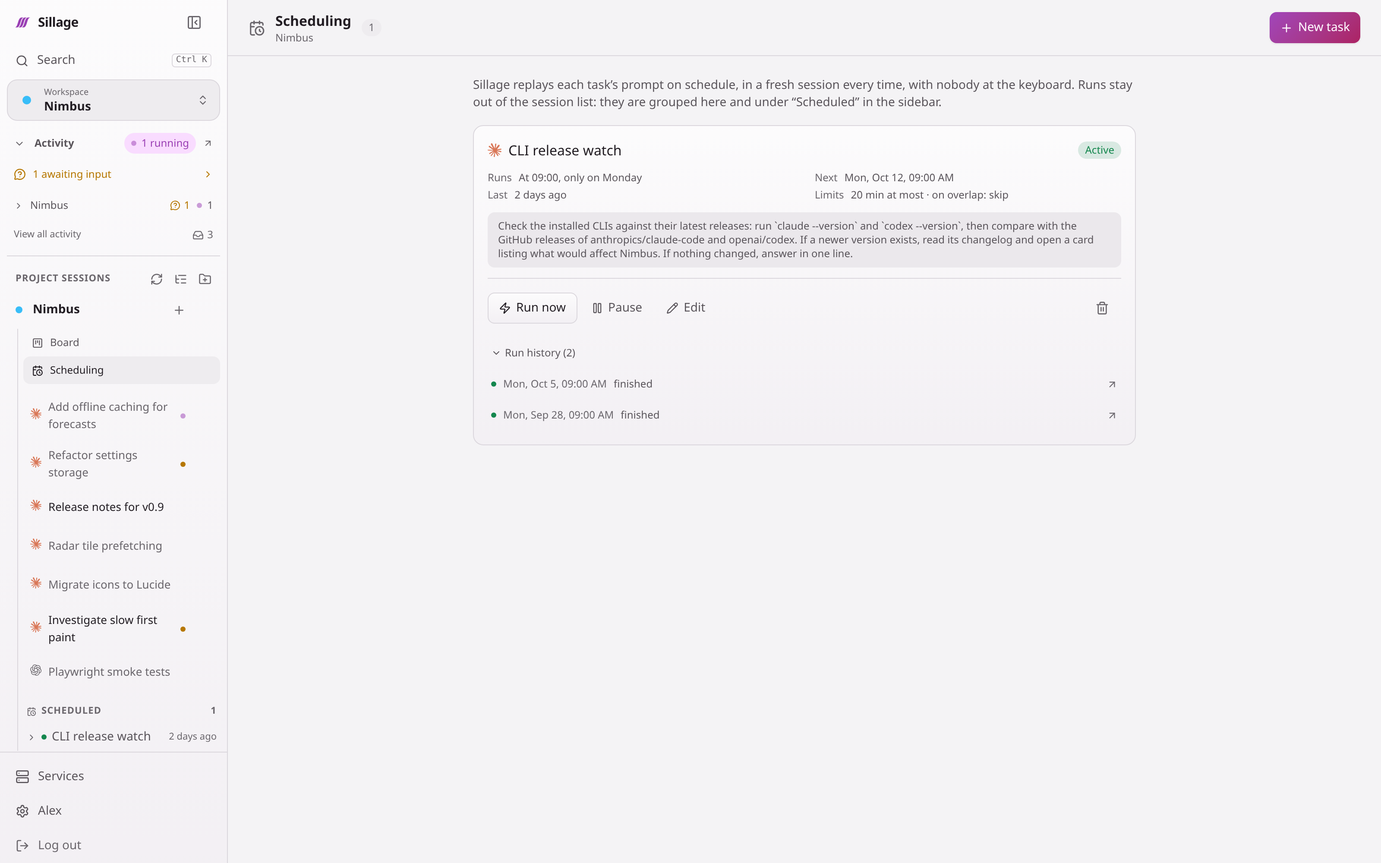
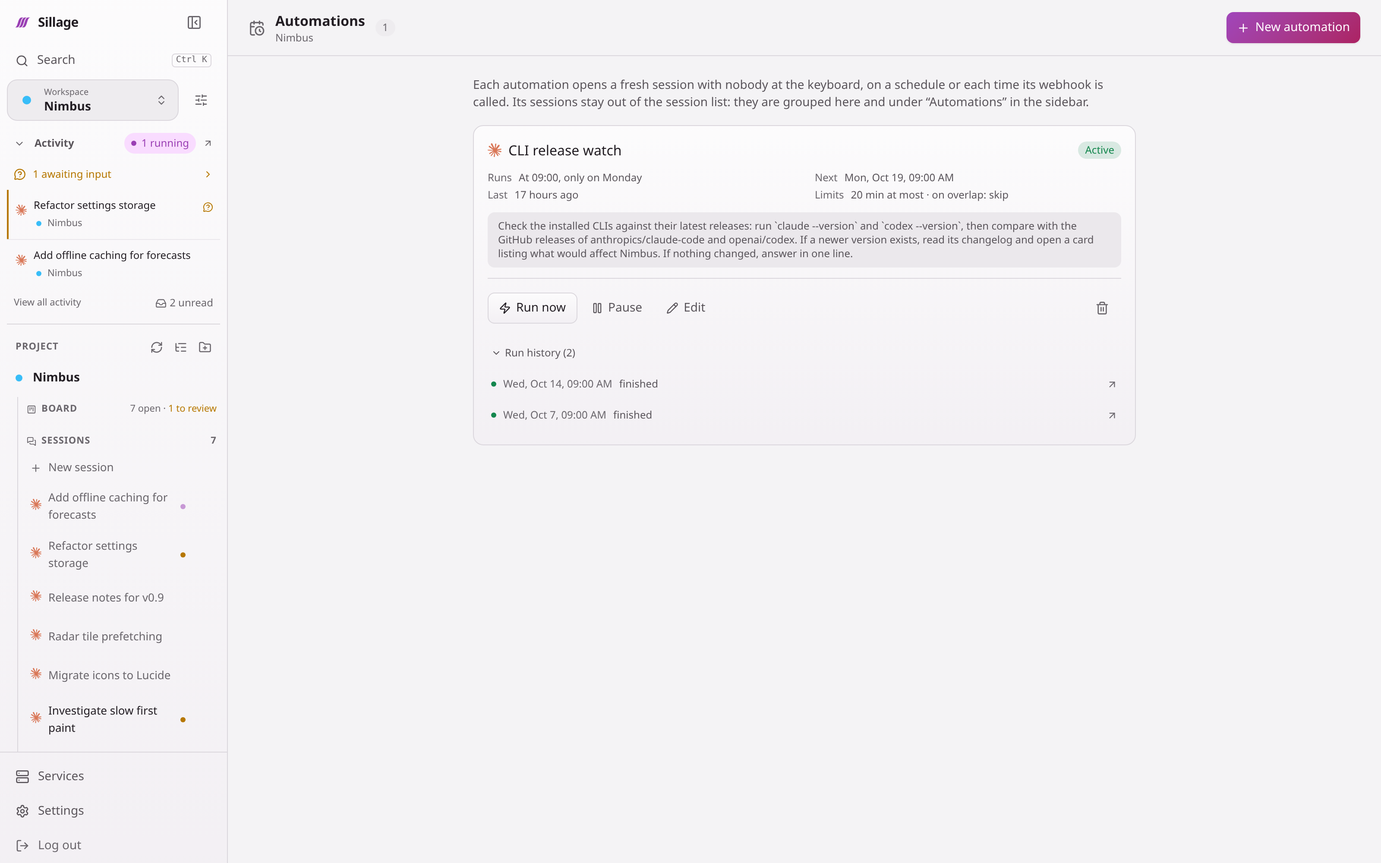
Actualiser le README et le site avec les fonctions récentes
Présenter les actions, automatisations, décisions, comptes et accès MCP désormais disponibles, avec leurs limites. Renouveler les captures sur une instance dédiée et adapter la navigation aux six chapitres.

diff --git a/site/index.html b/site/index.html
@@ -4,15 +4,15 @@
   <meta charset="utf-8">
   <title>Sillage · A workspace for coding agents</title>
   <meta name="viewport" content="width=device-width, initial-scale=1">
-  <meta name="description" content="A self-hosted workspace for Claude Code, Codex and OpenCode. Continue from any device, manage projects, and give agents the context to work together.">
+  <meta name="description" content="A self-hosted workspace for Claude Code, Codex and OpenCode. Work from any device, connect GitHub issues, automate tasks and choose the account for each session.">
   <link rel="icon" href="favicon.svg" type="image/svg+xml">
   <!-- Changer ?v= à chaque modification de style.css ou de main.js : GitHub Pages les laisse
        en cache dix minutes, et une page neuve servie avec une feuille ancienne se casse. -->
-  <link rel="stylesheet" href="style.css?v=film">
+  <link rel="stylesheet" href="style.css?v=automations">
   <meta name="theme-color" content="#faf7fb" media="(prefers-color-scheme: light)">
   <meta name="theme-color" content="#0f0b11" media="(prefers-color-scheme: dark)">
   <meta property="og:title" content="Sillage">
-  <meta property="og:description" content="Your projects, sessions and native coding agents, in one self-hosted workspace.">
+  <meta property="og:description" content="Native coding agents, GitHub issues, scheduled work and webhook automations, in one self-hosted workspace.">
   <meta property="og:image" content="https://marlburrow.github.io/sillage/og.png">
   <meta property="og:type" content="website">
   <noscript><style>.tab-panel[hidden], .shots-panels [hidden] { display: block !important; } .shots-nav, .tabs { display: none; } .shots-panels figure { margin-bottom: 2rem; }</style></noscript>
@@ -62,6 +62,7 @@
       <a href="#projects">Projects</a>
       <a href="#coordination">Coordination</a>
       <a href="#context">Instructions &amp; memory</a>
+      <a href="#schedules">Automations</a>
       <a href="#tour">Product tour</a>
       <a href="#install">Install</a>
       <a class="repo" href="https://github.com/MarlBurroW/sillage">GitHub</a>
@@ -83,7 +84,7 @@
       <div class="hero-heading">
         <h1>Keep your work<br>within reach.</h1>
         <div>
-          <p class="lede">A workspace for your coding agents.<br>Continue from your phone. Keep projects organised. Give each session the context to work with the others.</p>
+          <p class="lede">A workspace for your coding agents.<br>Continue from your phone. Turn issues and events into work. Keep the decisions within reach.</p>
           <p class="hero-detail">Claude Code, Codex and OpenCode run on your machine, with their native tools and your accounts. Sillage brings the work into your browser.</p>
           <p class="actions">
             <a class="btn primary" href="#install">Install Sillage <span aria-hidden="true">↗</span></a>
@@ -113,6 +114,7 @@
       <a href="#coordination"><span>03 / Session awareness</span>Let agents coordinate ↗</a>
       <a href="#agents"><span>04 / Multi-CLI</span>Choose the right harness ↗</a>
       <a href="#context"><span>05 / Shared context</span>One set of instructions, one memory ↗</a>
+      <a href="#schedules"><span>06 / Automations</span>Run on a schedule or an event ↗</a>
     </nav>
 
     <section class="overview" id="overview" aria-labelledby="overview-title">
@@ -161,7 +163,7 @@
         <p class="section-lede">Your agents have a home. Follow their work from any device.</p>
         <div class="prose-columns">
           <p>Run Sillage on an always-on server, connect through your VPN, and pick up on your phone. Close your browser mid-turn: the agent keeps working, and the event journal brings the conversation back when you reconnect.</p>
-          <p>Answer a permission request, review a diff or send a correction. Install Sillage as a PWA and receive push notifications when a turn finishes or an agent needs your attention.</p>
+          <p>Answer a permission request, review a diff or send a correction. Install Sillage as a PWA for push notifications on your other devices. Questions and decisions also appear as in-app toasts; a conversation already in view stays quiet.</p>
         </div>
         <p class="technical-note">Prefer your own computer? Sillage works there too. Keep it awake and online, and set up remote access before switching devices. Your agents and files stay on the machine where you installed them.</p>
         <a class="text-link" href="https://github.com/MarlBurroW/sillage/blob/main/docs/remote-access.md">Set up remote access &amp; agent preview links ↗</a>
@@ -181,8 +183,11 @@
       </figure>
       <div class="project-details">
         <div><h3>Cards with a history</h3><p>Descriptions, attachments, linked sessions and notes. Start a conversation from a card; the next agent can read what came before.</p></div>
+        <div><h3>GitHub issues, on your board</h3><p>Link a repository and keep its issues alongside local cards. Comments and issue state sync with GitHub; labels map to your columns. You choose whether new cards stay local or become issues.</p></div>
+        <div><h3>Maintenance on your terms</h3><p>Let a new issue or comment start work with your instructions, CLI and permissions. Each issue keeps its own session, and later comments join it. Choose a separate worktree or the project root.</p></div>
         <div><h3>Room for parallel work</h3><p>Use the project root, an existing worktree or a new branch. Keep separate changes in separate worktrees while following them from the same project.</p></div>
-        <div><h3>The repository at hand</h3><p>Read files, edit code, inspect diffs and commits, or open a terminal beside the conversation. Search past conversations across projects.</p></div>
+        <div><h3>The repository at hand</h3><p>Read and edit files, stage changes, commit, manage branches or open a terminal beside the conversation. Move several files together, and use the command palette to find projects, sessions and past messages.</p></div>
+        <div><h3>Commands worth keeping</h3><p>Turn tests, dev servers and debug scripts into project actions. Run them from the header, panel or command palette, follow their output and open a service's preview link. Review commands proposed by agents before launching them from the interface.</p></div>
       </div>
     </section>
 
@@ -202,7 +207,8 @@
           <div><dt>When work belongs elsewhere</dt><dd>Open a card for a bug found along the way. When you ask, start a new session with its own CLI, model, effort and worktree, then get notified when it finishes.<code>create_card · start_session · list_models</code></dd></div>
         </dl>
         <p class="technical-note">These tools help agents coordinate; they do not lock files or prevent merge conflicts. Use separate worktrees when changes need isolation.</p>
-        <a class="text-link" href="https://github.com/MarlBurroW/sillage/blob/main/apps/server/src/mcp/sillage-mcp.mjs">Read the tool definitions ↗</a>
+        <p><strong>Bring your own MCP client.</strong> A CLI outside Sillage can read history, boards, instructions and memory across projects, and launch new work. Connect over HTTP with a scoped API token, or use stdio on the host or over SSH. Messaging between sessions remains available to agents running inside Sillage.</p>
+        <a class="text-link" href="https://github.com/MarlBurroW/sillage/blob/main/docs/mcp.md">Connect an external CLI to Sillage ↗</a>
       </div>
     </section>
 
@@ -213,6 +219,10 @@
         <h2>Native harnesses.<br>A shared workspace.</h2>
         <p class="section-lede">Choose Claude Code, Codex or OpenCode for each conversation. Keep the project around it.</p>
         <div class="prose-columns"><p>Sillage drives the native CLIs: their tools, permission requests and agent behaviour. Each adapter translates its events into a common format for the interface, history and search.</p><p>The board and coordination tools belong to the project, so a Codex session can look up a decision made in a Claude Code conversation. Additional CLIs need their own adapter; Claude Code, Codex and OpenCode are supported today. OpenCode brings any provider and model it can reach, including local ones.</p></div>
+        <dl class="tool-reference">
+          <div><dt>Choose the account, too</dt><dd>Add Claude and Codex subscriptions or API keys from the interface, then choose an account for each conversation. Subscription usage helps you choose; extra Claude accounts need a separate sign-in for their gauge. <a href="https://github.com/MarlBurroW/sillage/blob/main/docs/accounts.md">Account setup and limits ↗</a></dd></div>
+          <div><dt>Keep your settings close</dt><dd>Pin the controls you use under the message box, from permissions and account to speed or advisor when the CLI supports them. Claude Code, Codex and OpenCode each keep their own composer layout.</dd></div>
+        </dl>
         <div class="agent-links"><a href="https://github.com/MarlBurroW/sillage/tree/main/apps/server/src/agents/claude">Claude Code adapter ↗</a><a href="https://github.com/MarlBurroW/sillage/tree/main/apps/server/src/agents/codex">Codex adapter ↗</a><a href="https://github.com/MarlBurroW/sillage/tree/main/apps/server/src/agents/opencode">OpenCode adapter ↗</a></div>
       </div>
     </section>
@@ -228,27 +238,29 @@
           <div><dt>When you change the rules</dt><dd>Ask an agent to revise the instructions; it edits them like a file.<code>read_instructions · edit_instructions · write_instructions</code></dd></div>
           <div><dt>When something is worth remembering</dt><dd>Codex and OpenCode note it in the project memory; Claude does it natively in the same folder.<code>read_memory · write_memory · delete_memory</code></dd></div>
         </dl>
-        <p class="technical-note">Both are read when a session starts: a session already running keeps the version it received. Existing projects keep their repository files until you move them into Sillage.</p>
+        <p class="technical-note">Claude Code and Codex read this context at session start; OpenCode receives it with each message. Existing projects keep their repository files until you move them into Sillage.</p>
         <a class="text-link" href="https://github.com/MarlBurroW/sillage/blob/main/docs/sillage-md.md">How it works in detail ↗</a>
       </div>
     </section>
 
     <section class="editorial" id="schedules">
       <div class="section-background" aria-hidden="true"><svg class="background-waves" viewBox="0 0 1600 1000" fill="none" preserveAspectRatio="xMidYMid slice" focusable="false"><use href="#background-pattern"/></svg></div>
-      <div class="section-label">06 / Scheduled work</div>
+      <div class="section-label">06 / Automations</div>
       <div class="section-body">
         <h2>Some work should happen<br>while you are away.</h2>
-        <p class="section-lede">A release watch every Monday. A dependency audit each night. Sillage runs them on time, in a fresh session, and keeps the results out of your way.</p>
+        <p class="section-lede">A release watch every Monday. An issue labeled for an agent. A failing CI run to investigate. Start work on a schedule or when an event arrives.</p>
         <figure class="product-shot">
-          <button type="button" data-zoom aria-label="Enlarge the scheduling page screenshot"><picture>
+          <button type="button" data-zoom aria-label="Enlarge the automations page screenshot"><picture>
             <source srcset="screenshots/schedule-dark.png" media="(prefers-color-scheme: dark)">
-            <img src="screenshots/schedule-light.png" width="3200" height="2000" loading="lazy" alt="Sillage scheduling page, with a weekly task, its next run and the history of past runs">
+            <img src="screenshots/schedule-light.png" width="3200" height="2000" loading="lazy" alt="Sillage automations page, with a weekly task, its next run and the history of past runs">
           </picture></button>
-          <figcaption>The scheduling page. One task, its cadence, its guard rails, and every run it has made.</figcaption>
+          <figcaption>Scheduled tasks and webhooks live under Automations, with settings and a history for each task.</figcaption>
         </figure>
-        <div class="prose-columns"><p>A scheduled task is a prompt with a cadence: every few hours, a cron expression, or a single date. Each run opens a new session of the CLI you chose, with the model, effort and permissions fixed on the task. The agent is told nobody is at the keyboard, gets the date, link and last reply of the previous run, and is cut off after a maximum duration. A run that overlaps the previous one is skipped, or waits.</p><p>Runs do not pile up in the session list. They sit under their task in the sidebar, one line per task with its state and last run, and the scheduling page keeps the full history. Neither CLI has a durable scheduler of its own: Claude's cron dies with its session, Codex has none. The daemon that already keeps your sessions alive does this for both.</p></div>
+        <div class="prose-columns"><p><strong>On a schedule.</strong> Run a prompt at an interval, with a cron expression or on a single date. Each run gets a fresh session of Claude Code, Codex or OpenCode, the task's model and permissions, and the previous run's last reply. Set a maximum duration and decide whether overlapping runs wait or are skipped.</p><p><strong>On an event.</strong> Connect a webhook, inspect its payload, and use its fields in conditions and prompts. Start from GitHub templates for labeled issues, comment commands, new pull requests or failed CI, or connect another service. Simulate a delivery to check what would run; deduplication and hourly limits bound the launches.</p></div>
         <dl class="tool-reference">
-          <div><dt>When you ask for recurring work</dt><dd>An agent can schedule it from the conversation, with an interval, a cron expression or a date. You adjust it later from the page.<code>schedule_task</code></dd></div>
+          <div><dt>Check before waking the agent</dt><dd>An optional script can check whether anything changed. Exit 0 starts the session with its output; exit 10 skips it without spending model tokens. Scripts written by an agent wait for your review.</dd></div>
+          <div><dt>Keep decisions within reach</dt><dd>Enable decision requests for a schedule, webhook or GitHub maintenance rule. The agent can leave a question in Decisions, with a deadline and an optional fallback. Your answer goes back to its session. This is off by default and separate from native CLI permissions.</dd></div>
+          <div><dt>Set it up from a conversation</dt><dd>Ask an agent to create a schedule or a webhook automation, then adjust it in the interface. Runs stay grouped under their task instead of filling the main session list.<code>schedule_task · create_automation</code></dd></div>
         </dl>
         <p class="technical-note">Runs use the project's default permissions unless the task says otherwise: a run that asks for a permission waits until its time is up. Pick a mode that fits what the task has to do on its own.</p>
       </div>
@@ -373,8 +385,8 @@
       <ul>
         <li><h3>A queue you can steer</h3><p>Write while the agent runs. Queue a follow-up, withdraw it, or send a correction into the current turn.</p></li>
         <li><h3>Dictation with project vocabulary</h3><p>Transcription uses a lexicon from your repository and current branch. An optional cleanup pass restores exact spellings. Bring an OpenAI-compatible endpoint.</p></li>
-        <li><h3>Shared skills &amp; MCP tools</h3><p>Keep reusable skills in a central library for Claude Code and Codex. Declare external MCP servers once and choose which agents receive them.</p></li>
-        <li><h3>A task API</h3><p>Create tasks, follow events, answer requests and receive completion webhooks through <code>/api/v1</code>. Tokens have scopes and optional project restrictions.</p></li>
+        <li><h3>Shared skills &amp; MCP tools</h3><p>Keep reusable skills in a central library for Claude Code, Codex and OpenCode. Declare external MCP servers once and choose which agents receive them.</p></li>
+        <li><h3>A task API</h3><p>Create projects and tasks, follow events, answer requests and receive completion webhooks through <code>/api/v1</code>. Tokens have scopes and optional project restrictions. <a href="https://github.com/MarlBurroW/sillage/blob/main/docs/api.md">API guide ↗</a></p></li>
         <li><h3>Processes in view</h3><p>On Linux, inspect commands and services attached to Sillage, their ports and originating conversations. <a href="https://github.com/MarlBurroW/sillage/blob/main/docs/services.md">Detection and limits ↗</a></p></li>
         <li><h3>Updates from the interface</h3><p>See when a release is available and read what changed. Native installations can update from the UI; container installations update through their image.</p></li>
       </ul>
@@ -385,6 +397,7 @@
       <div class="install-intro">
         <p class="section-label">Run it yourself</p><h2 id="install-title">Your machine.<br>Your workspace.</h2>
         <p>An always-on server is recommended for picking up work throughout the day. Your desktop works too, while it stays awake and connected.</p>
+        <p>Install the CLIs you use from Settings. Reuse their sign-ins on the host, or add Claude and Codex accounts through Sillage's guided sign-in flows.</p>
         <p>Docker, a systemd user service on Linux, a launchd agent on macOS, the same service inside WSL2 on Windows, or a Helm chart. All bind to localhost or stay inside the cluster by default. <a href="https://github.com/MarlBurroW/sillage/blob/main/docs/remote-access.md">Add private remote access with a VPN</a> to connect from another device.</p>
       </div>
 
@@ -489,9 +502,10 @@ curl -fsSL https://raw.githubusercontent.com/MarlBurroW/sillage/main/install.sh 
       <div class="section-background" aria-hidden="true"><svg class="background-waves" viewBox="0 0 1600 1000" fill="none" preserveAspectRatio="xMidYMid slice" focusable="false"><use href="#background-pattern"/></svg></div>
       <h2>A word on security</h2>
       <p>
-        Sillage is built for a trusted circle, not for the open Internet. Agents run under
-        your system account with your credentials, every account on the instance shares
-        them, and terminal mode is a full shell. The server listens on localhost and does
+        Sillage is built for a trusted circle, not for the open Internet. Agents and
+        terminals run under one system account. Host CLI sign-ins are shared; extra
+        Claude and Codex accounts belong to the Sillage user who adds them, but this
+        does not isolate their files from that system account. The server listens on localhost and does
         not terminate TLS: reach it through a VPN, a tailnet or a reverse proxy you control.
       </p>
     </section>

diff --git a/site/style.css b/site/style.css
@@ -548,8 +548,11 @@ footer nav a:hover { color: var(--ink); }
   cursor: pointer;
 }
 
-@media (max-width: 760px) {
+/* Les six chapitres restent accessibles sous le film quand le menu ne tient plus. */
+@media (max-width: 1100px) {
   .topbar nav a:not(.repo) { display: none; }
+}
+@media (max-width: 760px) {
   .why, .install, .security { grid-template-columns: 1fr; gap: 1.5rem; }
   .tabs button { padding-inline: .65rem; }
   .shots-arrows { display: none; }
@@ -621,9 +624,11 @@ h2 { font-size: clamp(2rem, 3.6vw, 3.3rem); font-weight: 550; letter-spacing: -.
 }
 [data-zoom] { display: block; width: 100%; padding: 0; background: var(--raised); border: 1px solid var(--shot-edge); border-radius: .35rem; overflow: hidden; cursor: zoom-in; }
 figcaption { margin-top: .8rem; color: var(--muted); font-size: .8rem; }
-.chapter-nav { margin: 0 auto; display: grid; grid-template-columns: repeat(4, 1fr); border-block: 1px solid var(--line); }
+.chapter-nav { margin: 0 auto; display: grid; grid-template-columns: repeat(3, 1fr); border-block: 1px solid var(--line); }
 .chapter-nav a { padding: 1.25rem 1rem; text-decoration: none; font-size: .83rem; }
 .chapter-nav a + a { border-left: 1px solid var(--line); }
+.chapter-nav a:nth-child(3n+1) { border-left: 0; }
+.chapter-nav a:nth-child(n+4) { border-top: 1px solid var(--line); }
 .chapter-nav a:hover { background: var(--sunken); }
 .chapter-nav span { display: block; color: var(--muted); margin-bottom: .5rem; }
 .editorial, .editorial-heading { display: grid; grid-template-columns: 1fr 3fr; gap: 3rem; }
@@ -654,7 +659,8 @@ figcaption { margin-top: .8rem; color: var(--muted); font-size: .8rem; }
   .hero-heading { gap: 2rem; }
   .editorial, .editorial-heading { grid-template-columns: 1fr 3fr; gap: 1.5rem; }
   .chapter-nav { grid-template-columns: 1fr 1fr; }
-  .chapter-nav a:nth-child(3) { border-left: 0; }
+  .chapter-nav a:nth-child(n) { border-left: 0; }
+  .chapter-nav a:nth-child(even) { border-left: 1px solid var(--line); }
   .chapter-nav a:nth-child(n+3) { border-top: 1px solid var(--line); }
   .features ul { grid-template-columns: 1fr 1fr; }
 }

diff --git a/README.md b/README.md
@@ -45,7 +45,14 @@ The full specification lives in [docs/SPEC.md](docs/SPEC.md) (French).
   into a single event schema, so history, search, the board and the panel behave the
   same way whichever one ran the conversation.
 - **The repository, one panel away.** File explorer, editor, diffs, commit
-  history and terminals, beside the conversation that changed them.
+  history and terminals, beside the conversation that changed them. Stage changes,
+  commit, manage branches and remotes, or copy and move several files at once.
+- **Project actions.** Save a test command, a dev server or a debug script as a
+  button, available from the project header, the workspace panel and the command
+  palette. Tasks keep their output and exit code; services run as persistent user
+  units on Linux with systemd, with a terminal fallback elsewhere. Agents can
+  propose actions for you to review before their first launch from the interface.
+  Definitions stay in Sillage, without adding files to your repository.
 - **Worktrees.** Start a conversation on the project root, on an existing
   worktree, or on a branch Sillage creates for it.
 - **Full-text search** across every conversation in every project.
@@ -54,12 +61,13 @@ The full specification lives in [docs/SPEC.md](docs/SPEC.md) (French).
   plus the permanent apps agents run as `sillage-app-*` systemd units; stop them from
   the same page. Other systemd services and tmux sessions are excluded.
   [Detection and limits](docs/services.md).
-- **A board the agents can read and add to.** Cards per project, handed to the
-  agent through a built-in MCP server: a session can read its card, look up what an
-  earlier one decided, see which sessions are running, and leave a note for the
-  next. It can also open a card for a bug it ran into along the way. Moving cards
-  and editing their descriptions stay with you. The same server runs from a CLI
-  outside Sillage, over every project at once: [docs/mcp.md](docs/mcp.md).
+- **A board connected to GitHub.** Keep local cards alongside issues from a linked
+  repository, with descriptions, comments, attachments and sessions. Choose whether
+  new cards stay local or become issues; labels and issue state map to board columns.
+  Agents can read cards, leave notes, create cards, and close or reopen linked issues
+  through the built-in MCP server. Optional maintenance starts a session for a new
+  issue and brings subsequent comments into that issue's session, using your
+  instructions, CLI and worktree choice.
 - **Sessions that coordinate.** Through the same server, a session can message
   another, ask to be notified when it finishes, or start a new one when you ask:
   "start a Codex session at max effort to fix this" opens a conversation that you
@@ -76,23 +84,51 @@ The full specification lives in [docs/SPEC.md](docs/SPEC.md) (French).
   tokens when something changed. Agents can schedule too, through `schedule_task`,
   the durable equivalent of Claude's session-bound cron; a check script an agent
   writes waits for your approval before it runs.
+- **Webhook automations.** Start a session when an issue gets a label, a pull
+  request opens, CI fails, or another service sends an event. Inspect payloads,
+  build conditions and prompts from their fields, and simulate a delivery without
+  starting an agent. GitHub templates, an optional sandboxed JavaScript filter,
+  delivery deduplication and hourly limits help keep triggers under control.
+- **Decisions for autonomous work.** Enable decision requests on a schedule,
+  webhook automation or GitHub maintenance rule. The agent can leave a question in
+  **Decisions** and receive your answer back in its session, with an expiry and an
+  optional fallback choice. This is separate from the CLI's permission requests
+  and is off by default for each source.
 - **Shared instructions and memory.** One `SILLAGE.md` and one project memory for
   all three CLIs, editable from the interface, which agents can read and rewrite.
   [How it works](#instructions-and-memory).
-- **Installable PWA with push notifications**, silent while you already have the
-  conversation open.
+- **Installable PWA with notifications.** In-app toasts for questions and decisions,
+  push notifications on other devices, and silence while you already have the
+  conversation open. Manage subscribed devices and send a test from Settings.
 - **Dictation** biased with a lexicon read from the project itself plus the
   current branch, then an optional cleanup pass. Any OpenAI-format endpoint.
 - **MCP servers** declared once and handed to the agents that should get them.
+- **A shared skill library** for Claude Code, Codex and OpenCode, with global and
+  project skills managed from the interface. [Skill library](docs/skill-library.md).
 - **Extra accounts.** Register other Claude subscriptions or API keys, and other
-  Codex sign-ins, then pick one per conversation; the CLI's own sign-in stays
-  untouched. [Extra accounts](docs/accounts.md).
+  Codex subscriptions or API keys from the interface, then pick one when creating
+  a conversation or from its composer. Compare subscription usage before choosing;
+  extra Claude subscriptions need a separate guided sign-in to enable their gauge.
+  Added accounts belong to the Sillage user who registered them.
+  [Extra accounts](docs/accounts.md).
+- **A composer you can arrange.** Pin the settings you use under the message box:
+  permissions, speed, account, advisor or other controls supported by that CLI.
+  Each CLI keeps its own layout.
 - **A task API for machines.** `/api/v1` speaks tasks rather than screens: open
   one in a project, follow its events, answer what it asks, steer or interrupt
   it, and take a webhook when it lands. Bearer tokens carry their own scopes and
   an optional list of allowed projects, separate from the browser session.
   Create projects with `POST /api/v1/projects` and the explicit `projects:write`
   scope on an unrestricted token. [Project creation API](docs/api.md).
+- **Sillage's MCP from your own tools.** Connect an external CLI to project history,
+  boards, instructions and memory, and launch work across projects. Use stdio on
+  the host or over SSH, or Streamable HTTP at `/api/v1/mcp` with an API token carrying
+  the `mcp` scope and optional project restrictions. Session-to-session messaging
+  stays inside Sillage. [MCP setup and scope](docs/mcp.md).
+
+The CLI versions this tree targets are kept in
+[`packages/protocol/src/cli-versions.ts`](packages/protocol/src/cli-versions.ts).
+Sillage can install them from Settings and flags incompatible installed versions.
 
 ## Instructions and memory
 
@@ -140,6 +176,10 @@ OpenCode receives them with every message, so an edit reaches it on the next one
 Details and the probes behind them: [docs/sillage-md.md](docs/sillage-md.md).
 
 ## Install
+
+Install the CLIs you use from Settings. Reuse their existing sign-ins on the host,
+or add Claude and Codex accounts through Sillage's guided sign-in flows.
+[Account setup](docs/accounts.md).
 
 ### Docker
 
@@ -285,8 +325,10 @@ pnpm dev                  # API on :7317, Vite UI on :5317 with /api proxy
 
 Sillage is built for a trusted circle, not for public exposure:
 
-- Agents run under your system account, with your Claude, Codex and OpenCode
-  credentials. Every account on the instance shares your subscriptions and API keys.
+- Agents run under your system account. The host CLI sign-ins are shared; extra
+  Claude and Codex accounts can only be selected by the Sillage user who added them.
+  That selection rule is not an operating-system security boundary: agents and
+  terminals still run as the same system user and can access its files.
 - Terminal mode gives a full shell under that same account.
 - There is no system-level isolation between users: a shared project is readable
   by every account.

diff --git a/docs/accounts.md b/docs/accounts.md
@@ -14,8 +14,9 @@ so in the thread.
 
 On the new-session screen, an **Account** choice sits right under the CLI choice as
 soon as an extra account exists. Each option shows where its account stands: the two
-most loaded usage windows for the CLI's own sign-in and for Codex subscriptions, or a
-sentence for the accounts that have no gauge (a subscription token, an API key). It
+most loaded usage windows for the CLI's own sign-in, Codex subscriptions and extra
+Claude subscriptions with their usage gauge enabled, or a sentence for accounts
+without a gauge (a subscription token without the extra sign-in, an API key). It
 sets the same field as the composer's **Account** setting.
 
 ## Claude Code
